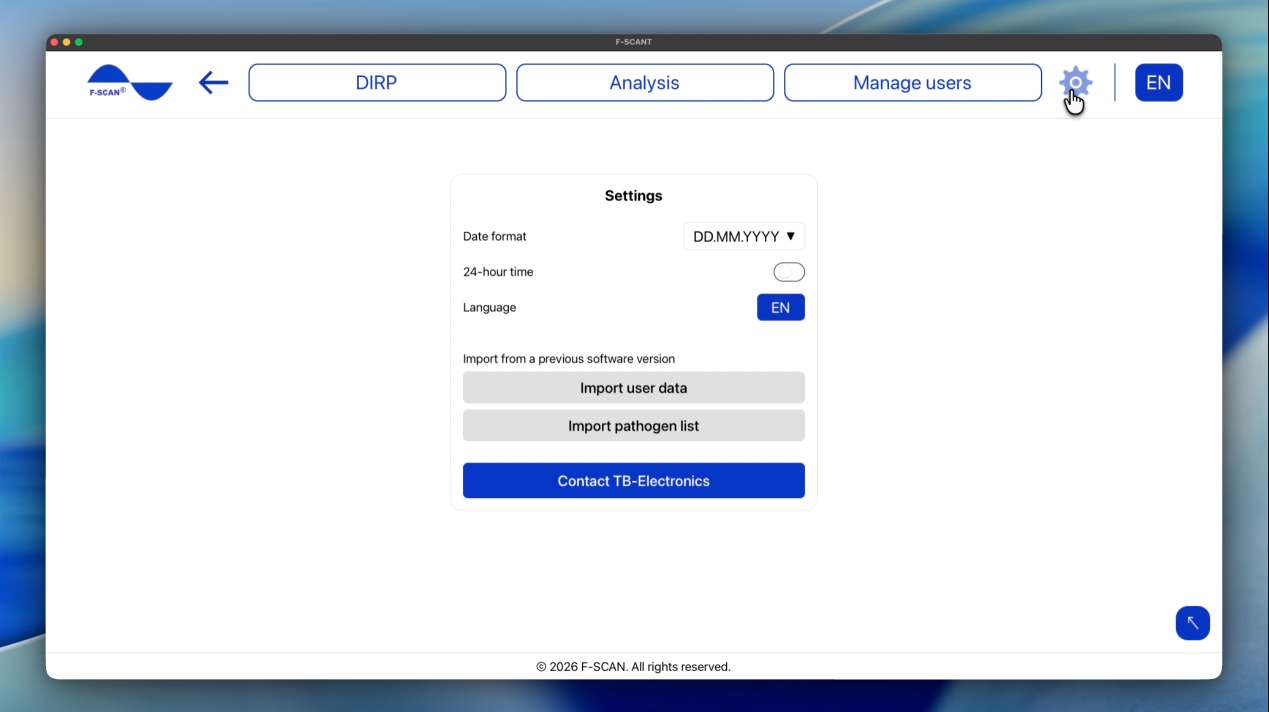
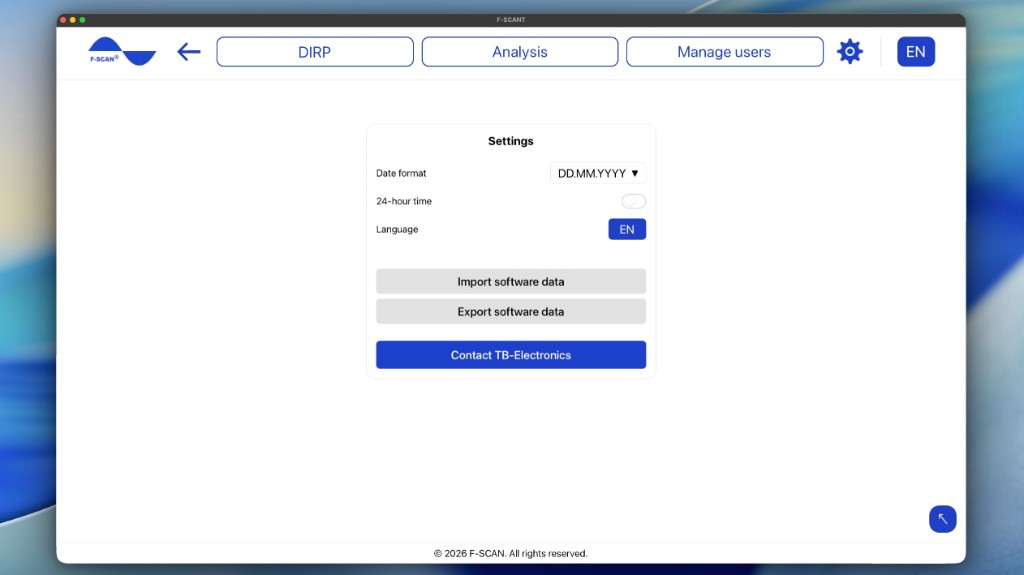
Match Save as program / + New labels and refresh the Settings screenshot.
The guide now uses the app's exact button labels, and Figure 10 shows the current Import/Export software data buttons.

Changed region(s): [[0.0, 0.0, 1.0, 1.0], [0.3438, 0.2957, 0.6562, 0.7096], [0.4688, 0.2365, 0.5312, 0.2957]]

diff --git a/docs/de/analysis.md b/docs/de/analysis.md
@@ -49,7 +49,7 @@ So sehen Sie die Treffer:
 4. Wählen Sie, was als Nächstes geschehen soll:
     - **Exportieren** speichert eine CSV-Tabelle.
     - **Frequenzkatalog öffnen** ermöglicht Ihnen, den vollständigen Katalog zu durchsuchen. Sie können nach Namen suchen und von A bis Z oder nach Frequenz sortieren. Ausgewählte Zeilen können Sie mit der Schaltfläche **Zur Analyse hinzufügen** zur Analysetabelle hinzufügen.
-    - **Programm speichern** erstellt und speichert ein Programm auf Basis der ausgewählten Zeilen.
+    - **Als Programm speichern** erstellt und speichert ein Programm auf Basis der ausgewählten Zeilen.
 
 **Bitte beachten Sie:** Die Ergebnistabelle listet nur Katalogeinträge, deren Frequenz nahe an Ihren HITS liegt. Sie ist keine medizinische Diagnose.
 
@@ -69,7 +69,7 @@ Video 8. HITS mit dem Katalog abgleichen und den Frequenzkatalog durchsuchen.
 Ein **Programm** ist die Frequenzliste aus den **HITS** eines DIRP (Wellenform, Zeit, Wobble, Hüllkurve und Amplitude). Das Ändern eines Programms ändert nicht das ursprüngliche DIRP-Diagramm.
 
 1. Öffnen Sie das Programm auf eine von zwei Arten: Klicken Sie nach Abschluss des DIRP im DIRP-Diagramm auf **Programm öffnen**, oder verwenden Sie **Programm verwalten** unter **Benutzer verwalten**.
-2. Bearbeiten Sie die Zeilen bei Bedarf. Sie können Wellenform, Zeit, Wobble, Hüllkurve und Amplitude ändern. Klicken Sie auf **+ Neue Frequenz**, um eine Zeile hinzuzufügen.
+2. Bearbeiten Sie die Zeilen bei Bedarf. Sie können Wellenform, Zeit, Wobble, Hüllkurve und Amplitude ändern. Klicken Sie auf **+ Neu**, um eine Zeile hinzuzufügen.
 3. Klicken Sie auf **Speichern auf** und wählen Sie den Speicherort:
     - **CSV** speichert die ausgewählten Frequenzen als Tabellendatei.
     - **Gerät** sendet das Programm an den F-SCAN (**Needs F-SCAN**). F-SCANT startet die Ausgabe nicht. Drücken Sie START am F-SCAN, wenn Sie es ausführen möchten.

diff --git a/docs/it/analysis.md b/docs/it/analysis.md
@@ -49,7 +49,7 @@ Per vedere le corrispondenze:
 4. Scegli cosa fare dopo:
     - **Esporta** salva un foglio CSV.
     - **Apri catalogo frequenze** permette di sfogliare l’intero catalogo. Puoi cercare per nome, ordinare dalla A alla Z o per frequenza. Le righe selezionate si possono aggiungere alla tabella di analisi con il pulsante **Aggiungi all’analisi**.
-    - **Salva programma** crea e memorizza un programma basato sulle righe selezionate.
+    - **Salva come programma** crea e memorizza un programma basato sulle righe selezionate.
 
 **Nota:** la tabella dei risultati elenca solo le voci del catalogo la cui frequenza è vicina ai tuoi HITS. Non è una diagnosi medica.
 
@@ -69,7 +69,7 @@ Video 8. Confrontare gli HITS con il catalogo e sfogliare il catalogo frequenze.
 Un **programma** è l’elenco di frequenze ricavato dagli **HITS** di un DIRP (forma d’onda, tempo, wobble, inviluppo e ampiezza). Modificare un programma non modifica il grafico DIRP originale.
 
 1. Apri il programma in uno di due modi: fai clic su **Apri programma** sul grafico DIRP dopo che il DIRP è completato, oppure usa **Gestisci programma** in **Gestisci utenti**.
-2. Modifica le righe se serve. Puoi cambiare Forma d’onda, Tempo, Wobble, Inviluppo e Ampiezza. Fai clic su **+ Nuova frequenza** per aggiungere una riga.
+2. Modifica le righe se serve. Puoi cambiare Forma d’onda, Tempo, Wobble, Inviluppo e Ampiezza. Fai clic su **+ Nuovo** per aggiungere una riga.
 3. Fai clic su **Salva su** e scegli dove salvarlo:
     - **CSV** salva le frequenze selezionate come foglio di calcolo.
     - **Dispositivo** invia il programma all’F-SCAN (**Needs F-SCAN**). F-SCANT non avvia l’uscita. Premi START sull’F-SCAN quando vuoi eseguirlo.

diff --git a/docs/cs/analysis.md b/docs/cs/analysis.md
@@ -49,7 +49,7 @@ Pro zobrazení shod:
 4. Zvolte další postup:
     - **Exportovat** uloží tabulku CSV.
     - **Otevřít katalog frekvencí** umožní prohlížet celý katalog. Můžete hledat podle názvu a řadit od A do Z nebo podle frekvence. Vybrané řádky lze přidat do tabulky analýzy tlačítkem **Přidat do analýzy**.
-    - **Uložit program** vytvoří a uloží program na základě vybraných řádků.
+    - **Uložit jako program** vytvoří a uloží program na základě vybraných řádků.
 
 **Upozornění:** tabulka výsledků uvádí jen položky katalogu, jejichž frekvence je blízko vašim HITS. Nejde o lékařskou diagnózu.
 
@@ -69,7 +69,7 @@ Video 8. Porovnání HITS s katalogem a prohlížení katalogu frekvencí.
 **Program** je seznam frekvencí převzatých z **HITS** DIRP (tvar vlny, čas, wobble, obálka a amplituda). Změna programu nemění původní graf DIRP.
 
 1. Program otevřete jedním ze dvou způsobů: po dokončení DIRP klikněte na grafu DIRP na **Otevřít program**, nebo použijte **Spravovat program** ve **Spravovat uživatele**.
-2. V případě potřeby upravte řádky. Můžete měnit **Tvar vlny**, **Čas**, **Wobble**, **Obálka** a **Amplituda**. Kliknutím na **+ Nová frekvence** přidáte řádek.
+2. V případě potřeby upravte řádky. Můžete měnit **Tvar vlny**, **Čas**, **Wobble**, **Obálka** a **Amplituda**. Kliknutím na **+ Nový** přidáte řádek.
 3. Klikněte na **Uložit do** a zvolte, kam uložit:
     - **CSV** uloží vybrané frekvence jako tabulkový soubor.
     - **Zařízení** odešle program do F-SCAN (**Needs F-SCAN**). F-SCANT výstup sám nespustí. Až jej chcete spustit, stiskněte na F-SCAN tlačítko START.

diff --git a/docs/pl/analysis.md b/docs/pl/analysis.md
@@ -49,7 +49,7 @@ Aby zobaczyć dopasowania:
 4. Wybierz, co dalej:
     - **Eksportuj** zapisuje arkusz CSV.
     - **Otwórz katalog częstotliwości** pozwala przeglądać pełny katalog. Możesz szukać po nazwie, sortować od A do Z lub według częstotliwości. Zaznaczone wiersze można dodać do tabeli analizy przyciskiem **Dodaj do analizy**.
-    - **Zapisz program** tworzy i zapisuje program na podstawie zaznaczonych wierszy.
+    - **Zapisz jako program** tworzy i zapisuje program na podstawie zaznaczonych wierszy.
 
 **Uwaga:** tabela wyników zawiera tylko pozycje katalogu, których częstotliwość jest bliska Twoim HITS. Nie jest diagnozą medyczną.
 
@@ -69,7 +69,7 @@ Film 8. Dopasowanie HITS do katalogu i przeglądanie katalogu częstotliwości.
 **Program** to lista częstotliwości wzięta z **HITS** DIRP (przebieg, czas, Wobble, obwiednia i amplituda). Zmiana programu nie zmienia oryginalnego wykresu DIRP.
 
 1. Otwórz program na jeden z dwóch sposobów: kliknij **Otwórz program** na wykresie DIRP po zakończeniu DIRP albo użyj **Zarządzaj programem** w **Zarządzaj użytkownikami**.
-2. W razie potrzeby edytuj wiersze. Możesz zmienić Przebieg, Czas, Wobble, Obwiednię i Amplitudę. Kliknij **+ Nowa częstotliwość**, aby dodać wiersz.
+2. W razie potrzeby edytuj wiersze. Możesz zmienić Przebieg, Czas, Wobble, Obwiednię i Amplitudę. Kliknij **+ Nowy**, aby dodać wiersz.
 3. Kliknij **Zapisz do** i wybierz miejsce zapisu:
     - **CSV** zapisuje wybrane częstotliwości jako plik arkusza.
     - **Urządzenie** wysyła program na F-SCAN (**Needs F-SCAN**). F-SCANT nie uruchamia programu na urządzeniu. Naciśnij START na F-SCAN, gdy chcesz go uruchomić.

diff --git a/docs/en/analysis.md b/docs/en/analysis.md
@@ -49,7 +49,7 @@ To see the matches:
 4. Choose what to do next:
     - **Export** saves a CSV spreadsheet.
     - **Open frequency catalog** lets you browse the full catalog. You can search by name, sort from A to Z or by frequency. Selected rows can be added to the analysis table with the button **Add to analysis**.
-    - **Save program** creates and stores a program based on the rows you selected.
+    - **Save as program** creates and stores a program based on the rows you selected.
 
 **Please note:** the results table only lists catalog entries whose frequency is close to your HITS. It is not a medical diagnosis.
 
@@ -69,7 +69,7 @@ Video 8. Match HITS to the catalog and browse the frequency catalog.
 A **program** is the list of frequencies taken from the **HITS** of a DIRP (wave form, time, wobble, envelope, and amplitude). Changing a program does not change the original DIRP graph.
 
 1. Open the program in one of two ways: click **Open program** on the DIRP chart after DIRP is completed, or use **Manage program** in **Manage users**.
-2. Edit the rows if you need to. You can change Wave form, Time, Wobble, Envelope, and Amplitude. Click **+ New frequency** to add a row.
+2. Edit the rows if you need to. You can change Wave form, Time, Wobble, Envelope, and Amplitude. Click **+ New** to add a row.
 3. Click **Save to** and choose where to save it:
     - **CSV** saves the selected frequencies as a spreadsheet file.
     - **Device** sends the program to the F-SCAN (**Needs F-SCAN**). F-SCANT does not start the output. Press START on the F-SCAN when you want to run it.

diff --git a/docs/de/settings.md b/docs/de/settings.md
@@ -2,9 +2,9 @@
 
 Klicken Sie auf das Zahnrad im oberen Menü, um **Einstellungen** zu öffnen.
 
-Abbildung 10. **Einstellungen**: Datumsformat, 24-Stunden-Format, Sprache und Import.
+Abbildung 10. **Einstellungen**: Datumsformat, 24-Stunden-Format, Sprache, **Softwaredaten importieren** und **Softwaredaten exportieren**.
 
-![Einstellungen: Datumsformat, 24-Stunden-Format, Sprache, Import](../assets/images/fscant-user-guide/17-settings.png)
+![Einstellungen: Datumsformat, 24-Stunden-Format, Sprache, Softwaredaten importieren, Softwaredaten exportieren](../assets/images/fscant-user-guide/17-settings.png)
 
 ## Datum und Uhrzeit einstellen
 

diff --git a/docs/pl/settings.md b/docs/pl/settings.md
@@ -2,9 +2,9 @@
 
 Kliknij koło zębate w górnym menu, aby otworzyć **Ustawienia**.
 
-Rysunek 10. **Ustawienia**: format daty, format 24-godzinny, język i import.
+Rysunek 10. **Ustawienia**: format daty, format 24-godzinny, język, **Importuj dane oprogramowania** i **Eksportuj dane oprogramowania**.
 
-![Ustawienia: format daty, format 24-godzinny, język, import](../assets/images/fscant-user-guide/17-settings.png)
+![Ustawienia: format daty, format 24-godzinny, język, Importuj dane oprogramowania, Eksportuj dane oprogramowania](../assets/images/fscant-user-guide/17-settings.png)
 
 ## Jak ustawić datę i godzinę
 

diff --git a/docs/cs/settings.md b/docs/cs/settings.md
@@ -2,9 +2,9 @@
 
 Kliknutím na ozubené kolečko v horní nabídce otevřete **Nastavení**.
 
-Obrázek 10. **Nastavení**: formát data, 24hodinový formát, jazyk a import.
+Obrázek 10. **Nastavení**: formát data, 24hodinový formát, jazyk, **Importovat data softwaru** a **Exportovat data softwaru**.
 
-![Nastavení: formát data, 24hodinový formát, jazyk, import](../assets/images/fscant-user-guide/17-settings.png)
+![Nastavení: formát data, 24hodinový formát, jazyk, Importovat data softwaru, Exportovat data softwaru](../assets/images/fscant-user-guide/17-settings.png)
 
 ## Jak nastavit datum a čas
 

diff --git a/docs/it/settings.md b/docs/it/settings.md
@@ -2,9 +2,9 @@
 
 Fai clic sull’ingranaggio nel menu in alto per aprire **Impostazioni**.
 
-Figura 10. **Impostazioni**: formato data, formato 24 ore, lingua e importazione.
+Figura 10. **Impostazioni**: formato data, formato 24 ore, lingua, **Importa dati software** ed **Esporta dati software**.
 
-![Impostazioni: formato data, formato 24 ore, lingua, importazione](../assets/images/fscant-user-guide/17-settings.png)
+![Impostazioni: formato data, formato 24 ore, lingua, Importa dati software, Esporta dati software](../assets/images/fscant-user-guide/17-settings.png)
 
 ## Come impostare data e ora
 

diff --git a/docs/en/settings.md b/docs/en/settings.md
@@ -2,9 +2,9 @@
 
 Click the gear in the top menu to open **Settings**.
 
-Figure 10. **Settings**: date format, 24-hour time, language, and import.
+Figure 10. **Settings**: date format, 24-hour time, language, **Import software data** and **Export software data**.
 
-![Settings: date format, 24-hour time, language, import](../assets/images/fscant-user-guide/17-settings.png)
+![Settings: date format, 24-hour time, language, Import software data, Export software data](../assets/images/fscant-user-guide/17-settings.png)
 
 ## How to set date and time
 
